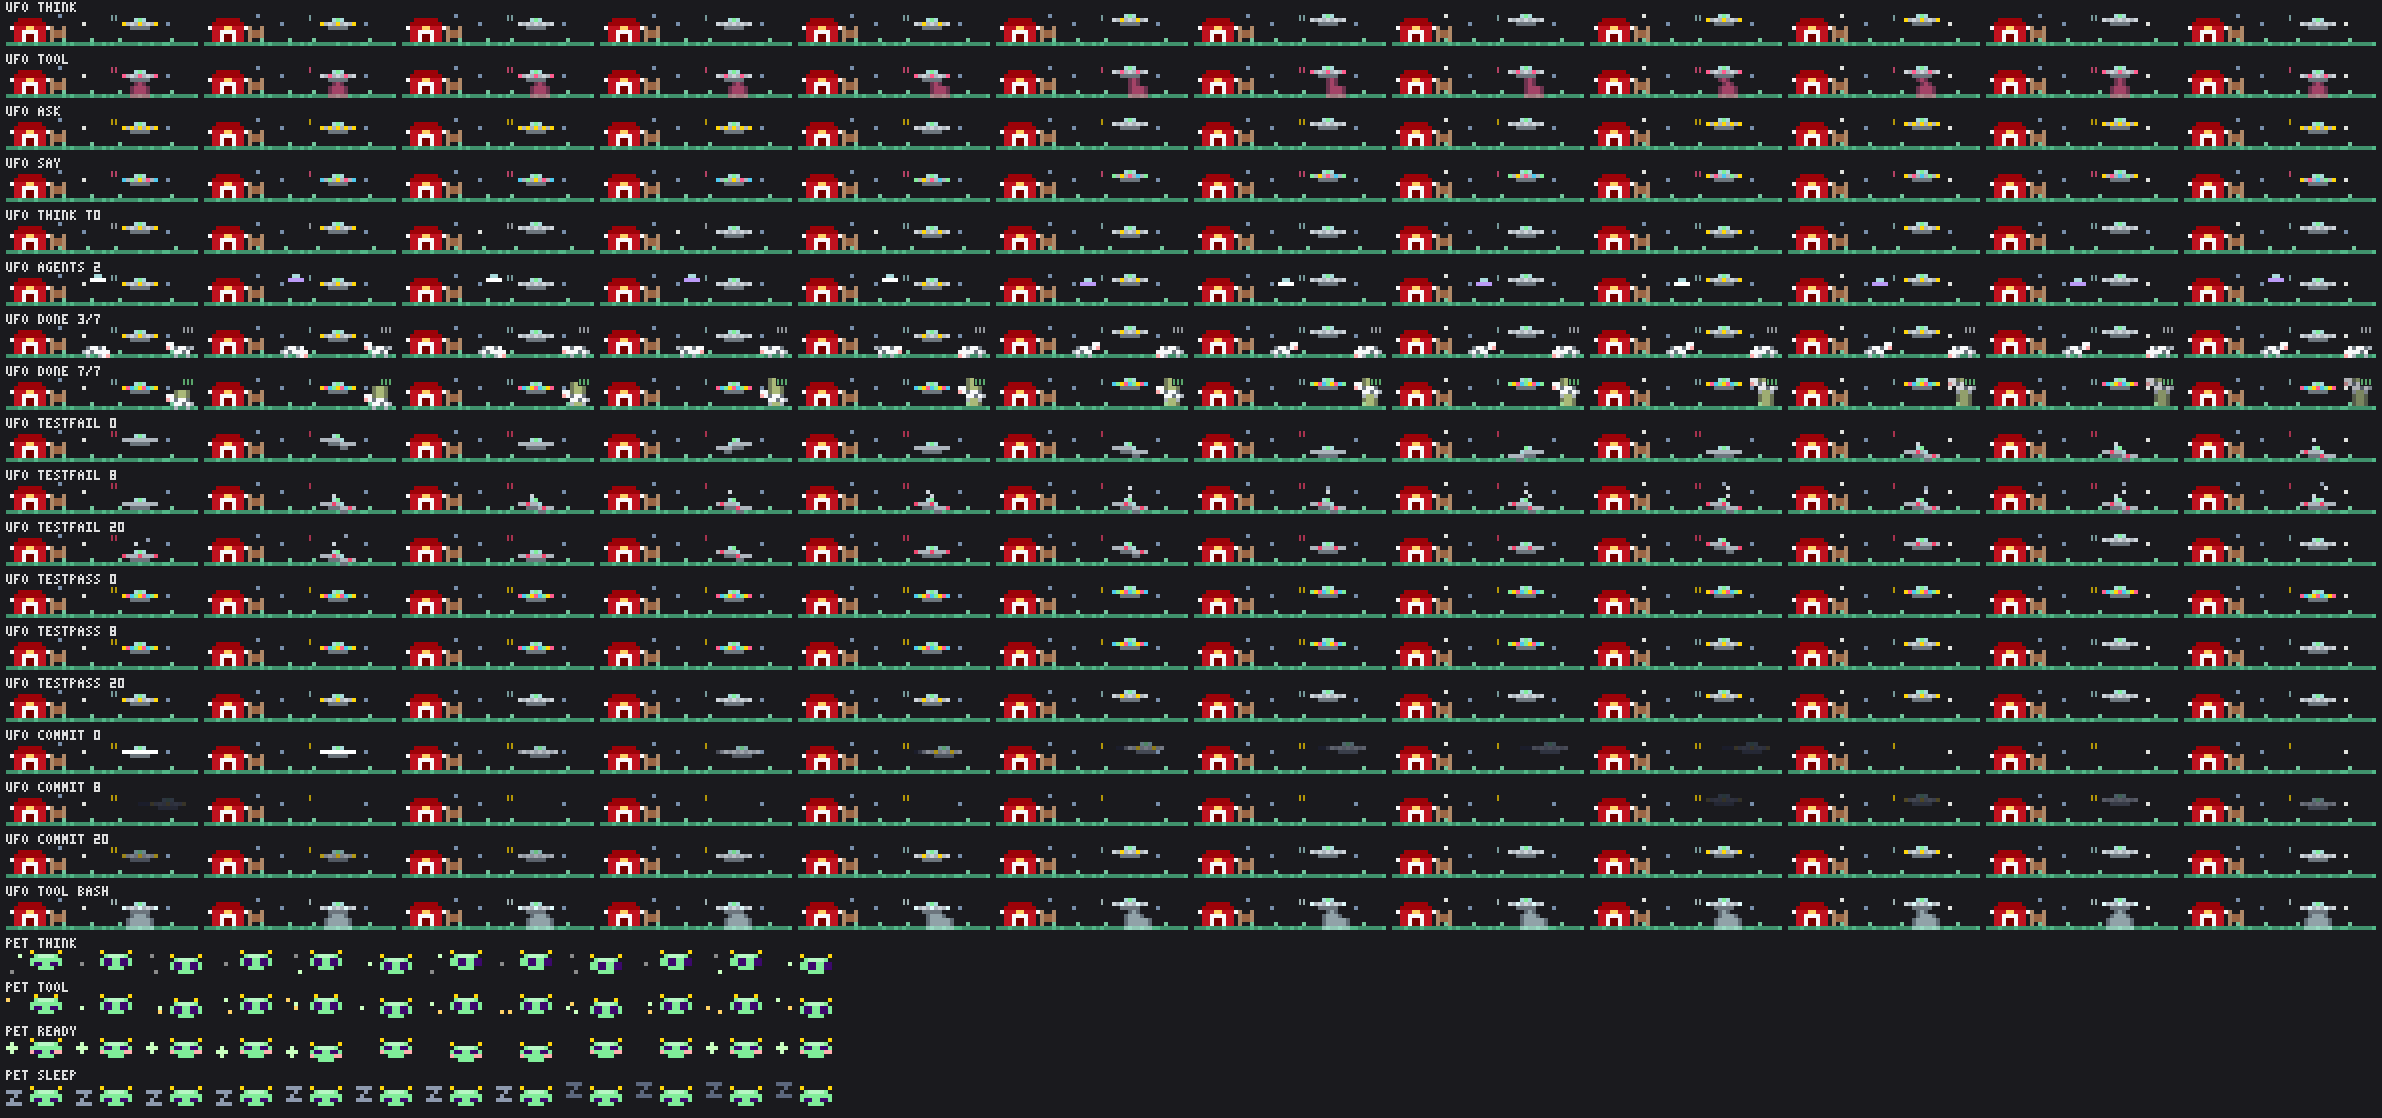
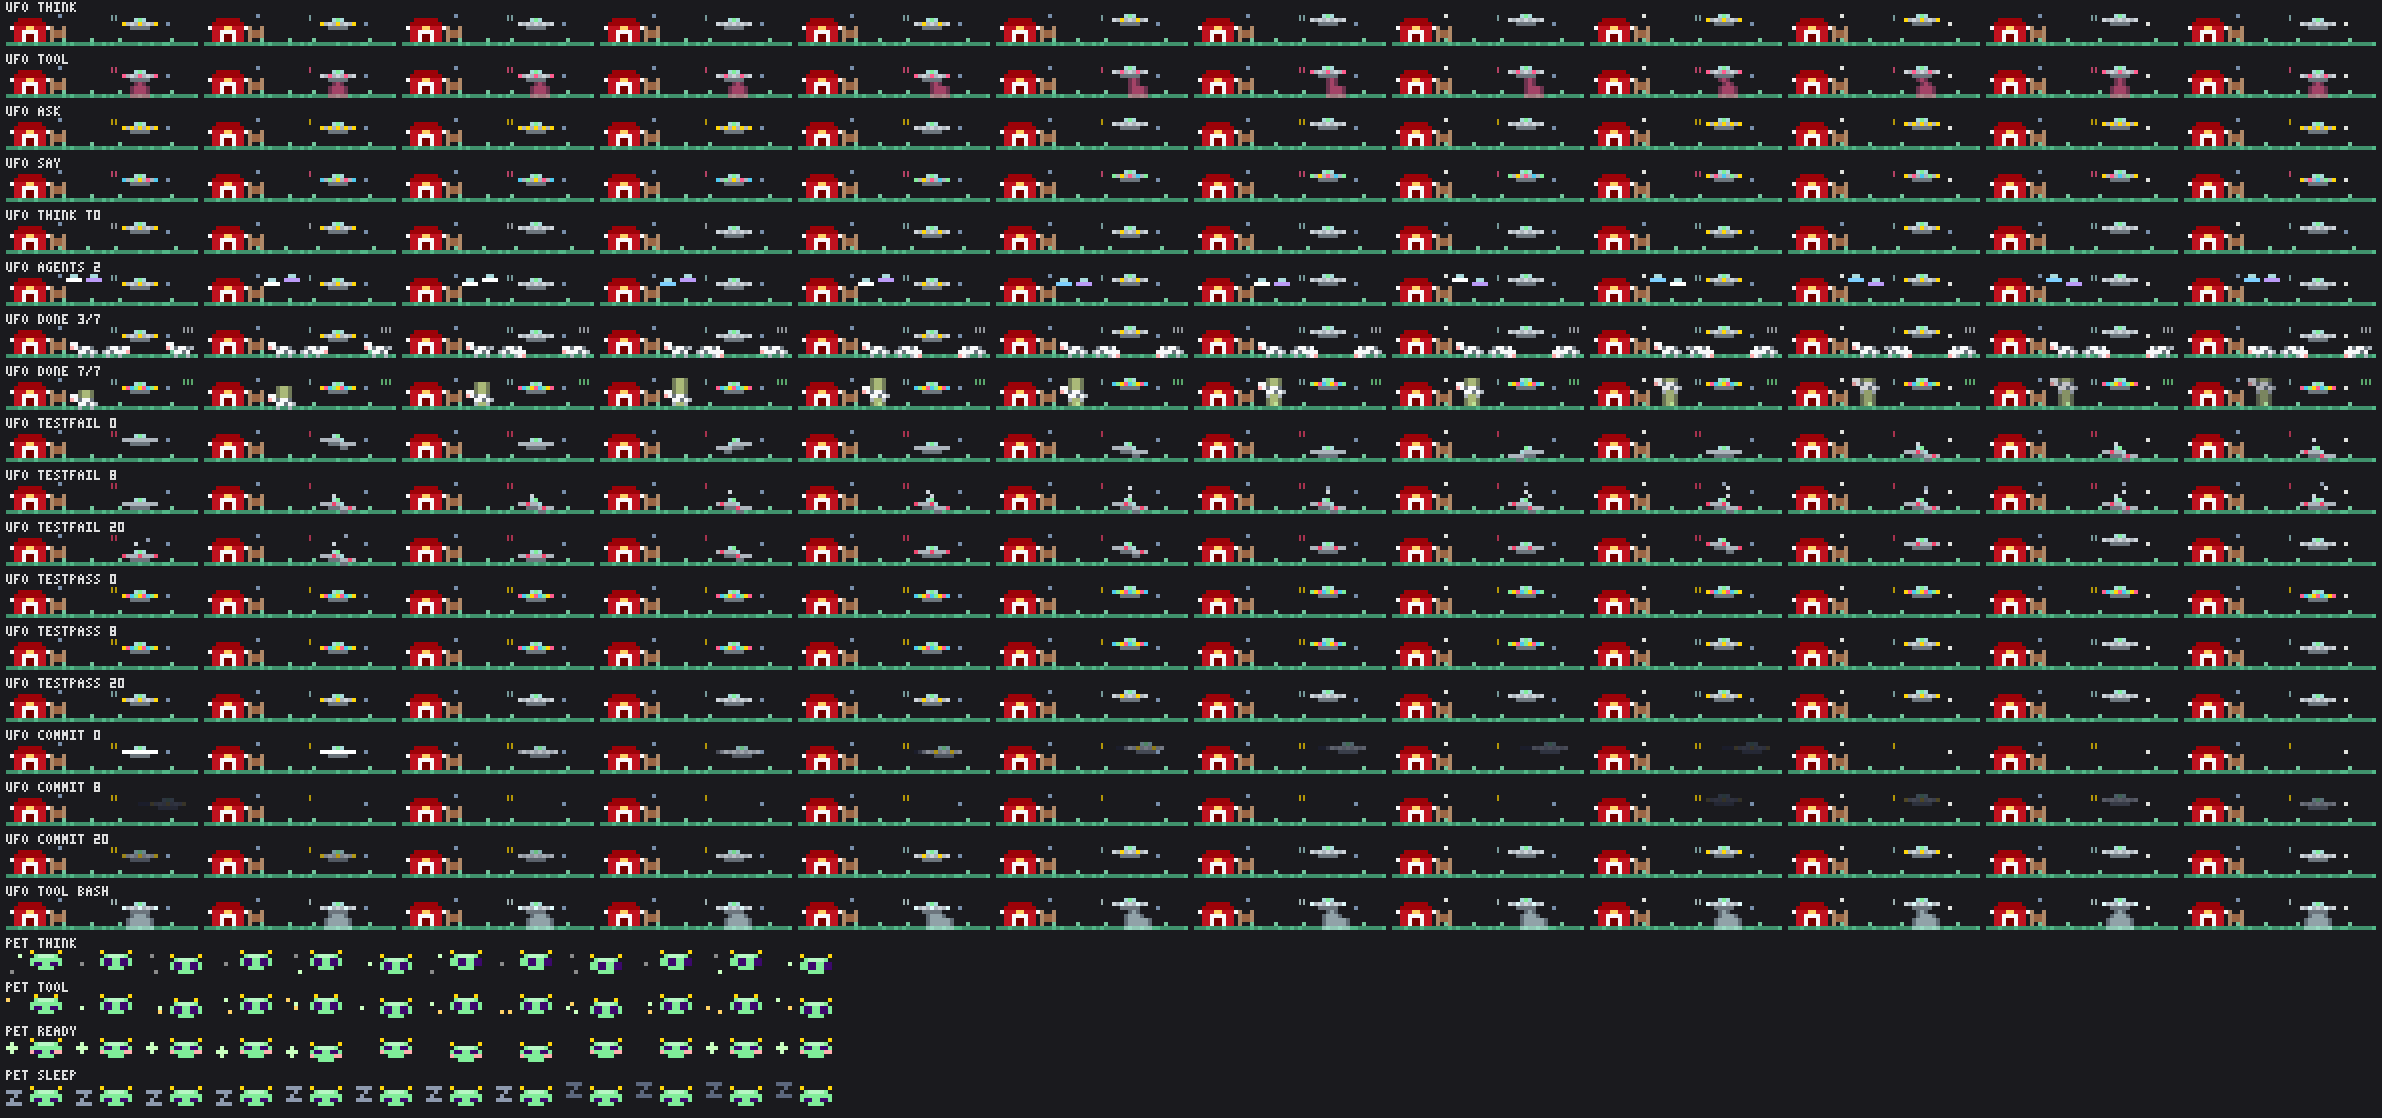
showtime: ufo — review fixes: the tool beam fades out over a crash's first frames and back in over its lift (rows from actAge only, no regrowth snap at newsAge 30); minis use the sky right of the barn (pitch 5, two columns clear of the sign) so two agents show at w=48; cows stand at fixed spots near

diff --git a/showtime/hooks/themes/ufo.ts b/showtime/hooks/themes/ufo.ts
@@ -3,12 +3,12 @@
 // The scene: a flying saucer over a farm at night (#b5e48c): a barn and a stretch of fence standing still,
 // stars twinkling, grass tufts swaying, cows grazing. The saucer hovers at a fixed column in the right half,
 // bobbing a pixel on twelve frames by `t`, rim lights chasing; a sign left of it reads the act. A cow per task
-// (floor-scaled) at spots out from either side of the beam's sweep, nearest first: a done one rises from its
-// spot in a shaft of light (a pixel every two frames), then fades. A tool beam grows down and sweeps on `t`,
-// wide on bash, in the tool's colour; a small saucer per agent in a fixed slot, flashing as it joins. testFail
+// (floor-scaled) at fixed spots, nearest the saucer first: a done one rises from its spot in a shaft of light
+// (a pixel every two frames), then fades. A tool beam grows down and sweeps on `t` over them as light, wide on
+// bash, in the tool's colour; a small saucer per agent in a fixed slot, flashing as it joins. testFail
 // rocks it down to the grass (each half a pixel a frame), smoking, and lifts it back by frame 30; a commit
 // zips it right a cell a frame for eight frames, fading, and fades it back in where it left; testPass flashes.
-// Motion rules: the grass fills pixel row 7; no cow stands where the beam sweeps; the sign's dot blinks.
+// Motion rules: the grass fills pixel row 7; cows never move sideways; the sign's tail dot blinks every frame.
 import { canvas, cells, draw, frame, mod, noise, plot, put } from '../cells'
 import type { Canvas, Grid } from '../cells'
 import { SCENE_ROWS } from '../draw'
@@ -19,7 +19,7 @@ import type { Signals, Theme, ToolKind } from '../themes'
 const SAUCER = ['...DPD...', 'RRRRRRRRR', '..UUUUU..']
 const MINI = ['.DD.', 'RRRR']
 /** Widths: the saucer, a mini's slot, a cow, a cow's slot, the barn, its fence; the most agents and cows. */
-const [SAUCER_W, MINI_PITCH, COW_W, COW_PITCH, BARN_W, FENCE_W, MAX_AGENTS, MAX_COWS] = [9, 6, 7, 8, 10, 4, 4, 10]
+const [SAUCER_W, MINI_PITCH, COW_W, COW_PITCH, BARN_W, FENCE_W, MAX_AGENTS, MAX_COWS] = [9, 5, 7, 8, 10, 4, 4, 10]
 /** Pixel rows: the cows' top, the fence's rail, the grass; the saucer's lowest top (resting on the grass). */
 const [COW_Y, RAIL_Y, GRASS_Y, GROUND_Y] = [4, 5, 7, 4]
 /** Frames: an act's change, a beamed cow's rise and its fade, a greeting, testPass, the 100% roll. */
@@ -58,7 +58,7 @@ const TOOL_INK: Record<ToolKind, string> = {
   bash: '#e0fbfc', edit: '#ff9e64', read: '#e0af68', search: '#7dcfff', agent: '#bb9af7', web: '#7aa2f7',
   other: '#ff5d8f',
 }
-const TOOL_SIGN: Record<ToolKind, string> = { bash: '$', edit: '✎', read: '¶', search: '⌕', agent: 'ᗣ', web: '◎',
+const TOOL_SIGN: Record<ToolKind, string> = { bash: '$', edit: '✎', read: '¶', search: '*', agent: '&', web: '◎',
   other: '✦' }
 const mirror = (art: readonly string[]) => art.map(r => [...r].reverse().join(''))
 
@@ -171,36 +171,24 @@ export function ufoScene(t: number, w: number, s: Signals): Grid {
     if (a < BACK_FROM) [x, fade] = [sx + zip, sx + ZIP_FRAMES >= w ? 0 : zip / ZIP_FRAMES]
     else fade = 1 - (a - BACK_FROM + 1) / (BACK_FRAMES + 1)
   }
-  // Agents: a small saucer per agent in a fixed slot left of the sign, as many as fit right of the barn.
-  const slots = Math.min(MAX_AGENTS, Math.max(0, Math.floor((sx - 4 - fieldL + 2) / MINI_PITCH)))
+  // Agents: a small saucer per agent in a fixed slot left of the sign, as many as fit in the sky right of the
+  // barn (over the fence: the minis fly in pixel rows 0-2, the fence stands in 3-6).
+  const skyL = hasBarn ? BARN_W + 1 : 1
+  const slots = Math.min(MAX_AGENTS, Math.max(0, Math.floor((sx - 9 - skyL) / MINI_PITCH) + 1))
   const minis = Math.min(s.agents, slots)
-  const miniX = (i: number) => sx - 4 - MINI_PITCH * (i + 1) + 2
+  // Two columns clear of the sign, so a bobbing mini never parts from it.
+  const miniX = (i: number) => sx - 9 - MINI_PITCH * i
   const busy = (c: number) => (hasBarn && c <= BARN_W + 1) || (c >= sx - 4 && c <= sx + SAUCER_W + 1) ||
     (c >= miniX(slots - 1) - 1 && c < sx - 4)
 
-  // Layer 1: the stars; the barn and the fence, still; the grass, its tufts swaying.
+  // Layer 1: the stars; layer 2: the barn and the fence, still; the grass, its tufts swaying.
   stars(cv, t, busy)
   farm(cv, t, hasBarn)
-  // Layer 2: the tool beam, grown a row a frame and strengthening over CHANGE_FRAMES as the act starts; it
-  // follows the saucer (faded with it) and is dimmed while it crashes.
-  const crash = isFail && a < FAIL_L.length - 5 ? Math.min(1, (a + 1) / 3) : 0
-  if (s.act === 'tool') {
-    const k = Math.min(1, (s.actAge + 1) / CHANGE_FRAMES) * (1 - fade) * (1 - crash)
-    const ink = TOOL_INK[s.tool ?? 'other']
-    // After a crash it grows back a row a frame, as it does when the act starts.
-    const rows = Math.min(s.actAge + 1, isFail ? Math.max(0, a - FAIL_L.length + 5) : 9)
-    if (k > 0) beam(cv, x, y, frame(SWEEP, t >> 1), s.tool === 'bash', ink, rows, k)
-  }
   // Layer 3: the cows, at fixed spots; the done ones (nearest the saucer first) gone, the newest rising in a
-  // shaft of light a pixel every two frames, then fading out.
-  // Spots: a cow's every COW_PITCH out from either side of where the tool beam sweeps (none under it: the
-  // beam would part from a cow two columns at once), nearest first; none depends on `total`.
-  const spots: number[] = []
-  for (let k = 0; k < MAX_COWS; k++) {
-    const [l, r] = [sx - 3 - COW_W - k * COW_PITCH, sx + SAUCER_W + 2 + k * COW_PITCH]
-    if (l >= fieldL) spots.push(l)
-    if (r + COW_W <= w) spots.push(r)
-  }
+  // shaft of light a pixel every two frames, into the saucer if it stood under it, fading out.
+  // Spots: every COW_PITCH from the fence, taken nearest the saucer first; none depends on `total`.
+  const spots = Array.from({ length: Math.floor((w - fieldL) / COW_PITCH) }, (_, k) => fieldL + k * COW_PITCH)
+    .sort((p, q) => Math.abs(p + 3 - sx - 4) - Math.abs(q + 3 - sx - 4) || p - q).slice(0, MAX_COWS)
   const count = Math.min(s.total, MAX_COWS, spots.length)
   const litOf = (d: number) => (s.total > count ? Math.floor((d * count) / s.total) : Math.min(d, count))
   const lit = litOf(s.done)
@@ -227,7 +215,16 @@ export function ufoScene(t: number, w: number, s: Signals): Grid {
     const art = COW[head]!.map((row, j2) => (flick && j2 < 3 ? row.slice(0, 6) + (j2 === 1 ? 'T' : '.') : row))
     draw(cv, cx, COW_Y, faces ? art : mirror(art), ink)
   })
-  // Layer 4: the minis, each bobbing on its own beat, the newest flashing as it joins; the saucer, its smoke.
+  // Layer 4: the tool beam over the cows as light, grown a row a frame and strengthening over CHANGE_FRAMES as
+  // the act starts; it follows the saucer (faded with it), fades out over the crash's first three frames and
+  // back in over its lift, home at full strength as the reaction ends.
+  const crash = isFail ? Math.max(0, Math.min(1, (a + 1) / 3, (FAIL_L.length - 1 - a) / 8)) : 0
+  if (s.act === 'tool') {
+    const k = Math.min(1, (s.actAge + 1) / CHANGE_FRAMES) * (1 - fade) * (1 - crash)
+    const ink = TOOL_INK[s.tool ?? 'other']
+    if (k > 0) beam(cv, x, y, frame(SWEEP, t >> 1), s.tool === 'bash', ink, Math.min(9, s.actAge + 1), k)
+  }
+  // Layer 5: the minis, each bobbing on its own beat, the newest flashing as it joins; the saucer, its smoke.
   for (let i = 0; i < minis; i++) {
     const flash = i === minis - 1 && s.agentsAge < GREET_FRAMES && mod(s.agentsAge, 2) === 0
     const rim = flash ? WHITE : MINI_INK[i]!
